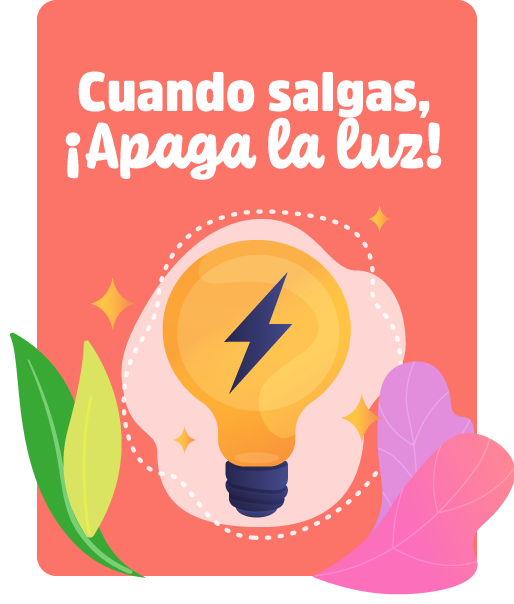
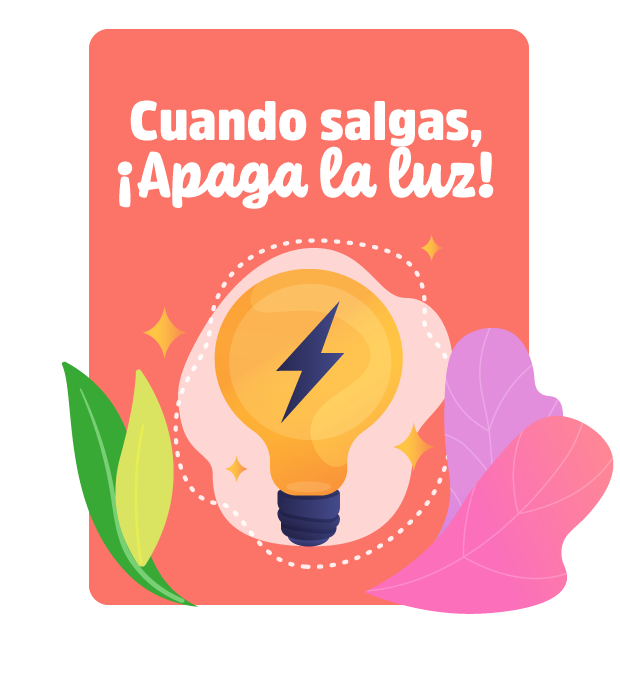
Style: change images od mobile and desktop design

diff --git a/index.html b/index.html
@@ -230,12 +230,10 @@
             <img src="./assets/img/Materiales_Bimbo-mobile/imagen-ecowash.png" alt="Imagen Ecowash">
           </div>
 
-          <div class="col">
+          <div class="col equivalencies__families_wrapper">
             <p class="ecowash_text">En Ideal buscamos un mundo mejor por eso ahora <strong class="ecowash_text-strong">nuestra flota de vehículos los lavamos en seco</strong> logrando un ahorro de 2.000.000 de litros de agua, el equivalente para abastecer a 172 familias.</p>
+            <img src="assets/img/Materiales_Bimbo-mobile/Imagen_familia.png" alt="Imagen Equivalentes Familias" class="equivalencies_families_img">
           </div>
-            <div class="col equivalencies__families_wrapper">
-              <img src="assets/img/Materiales_Bimbo-mobile/Imagen_familia.png" alt="Imagen Equivalentes Familias" class="equivalencies_families_img">
-            </div>
         </div>
       </div>
     </div>
@@ -424,7 +422,7 @@
     <div class="row section6__title2_wrapper-mobile">
       <img src="assets/img/Materiales_Bimbo-mobile/info-texto2.png"  alt="Imagen texto informacion">
     </div>
-    <div class="row section6__frame_wrapper">
+    <div class="row section6__frame_wrapper-desktop">
       <div class="col section6_img-wrapper">
         <img src="assets/img/Materiales_Bimbo-web/grafica1.png" alt="Gráfica 1 Cuida el planeta"
           class="section6__frame">
@@ -435,6 +433,20 @@
       </div>
       <div class="col section6_img-wrapper">
         <img src="assets/img/Materiales_Bimbo-web/grafica3.png" alt="Gráfica 3 Cuida el planeta"
+          class="section6__frame">
+      </div>
+    </div>
+    <div class="row section6__frame_wrapper-mobile">
+      <div class="col section6_img-wrapper">
+        <img src="assets/img/Materiales_Bimbo-mobile/grafica1.png" alt="Gráfica 1 Cuida el planeta"
+          class="section6__frame">
+      </div>
+      <div class="col section6_img-wrapper">
+        <img src="assets/img/Materiales_Bimbo-mobile/grafica2.png" alt="Gráfica 2 Cuida el planeta"
+          class="section6__frame">
+      </div>
+      <div class="col section6_img-wrapper">
+        <img src="assets/img/Materiales_Bimbo-mobile/grafica3.png" alt="Gráfica 3 Cuida el planeta"
           class="section6__frame">
       </div>
     </div>

diff --git a/styles.css b/styles.css
@@ -118,8 +118,8 @@ body {
   transform: scale(0.8);
 }
 .eco__wash_wrapper, .equivalencies__families_wrapper {
-  display: flex!important;
-  flex-direction: column!important;
+  display: flex;
+  flex-direction: column;
 }
 
 .ecowash_text {
@@ -210,6 +210,11 @@ header {
   display: block;
   height: 45rem;
   padding: 2rem;
+}
+
+.section2_responsability_img-container {
+  display: flex;
+  flex-direction: column; 
 }
 
 .section2__responsability_img-wrapper {
@@ -320,6 +325,16 @@ header {
 
   .section6__frame  {
     transform: scale(0.8);
+  }
+
+  .section6__frame_wrapper-desktop {
+    display: none;
+  }
+
+  .section6__frame_wrapper-mobile {
+    display: flex;
+    flex-direction: column;
+    justify-content: center;
   }
 
   .section6_img1-mobile, .section6_img2-mobile {
@@ -519,10 +534,14 @@ header {
     width: 100%;
   }
 
-  .section6__frame_wrapper {
+  .section6__frame_wrapper-desktop {
     display: flex;
     justify-content: space-between;
     width: 80%;
+  }
+
+  .section6__frame_wrapper-mobile {
+    display: none;
   }
 
   .section6_img1, .section6_img2, .section6_img3 {
